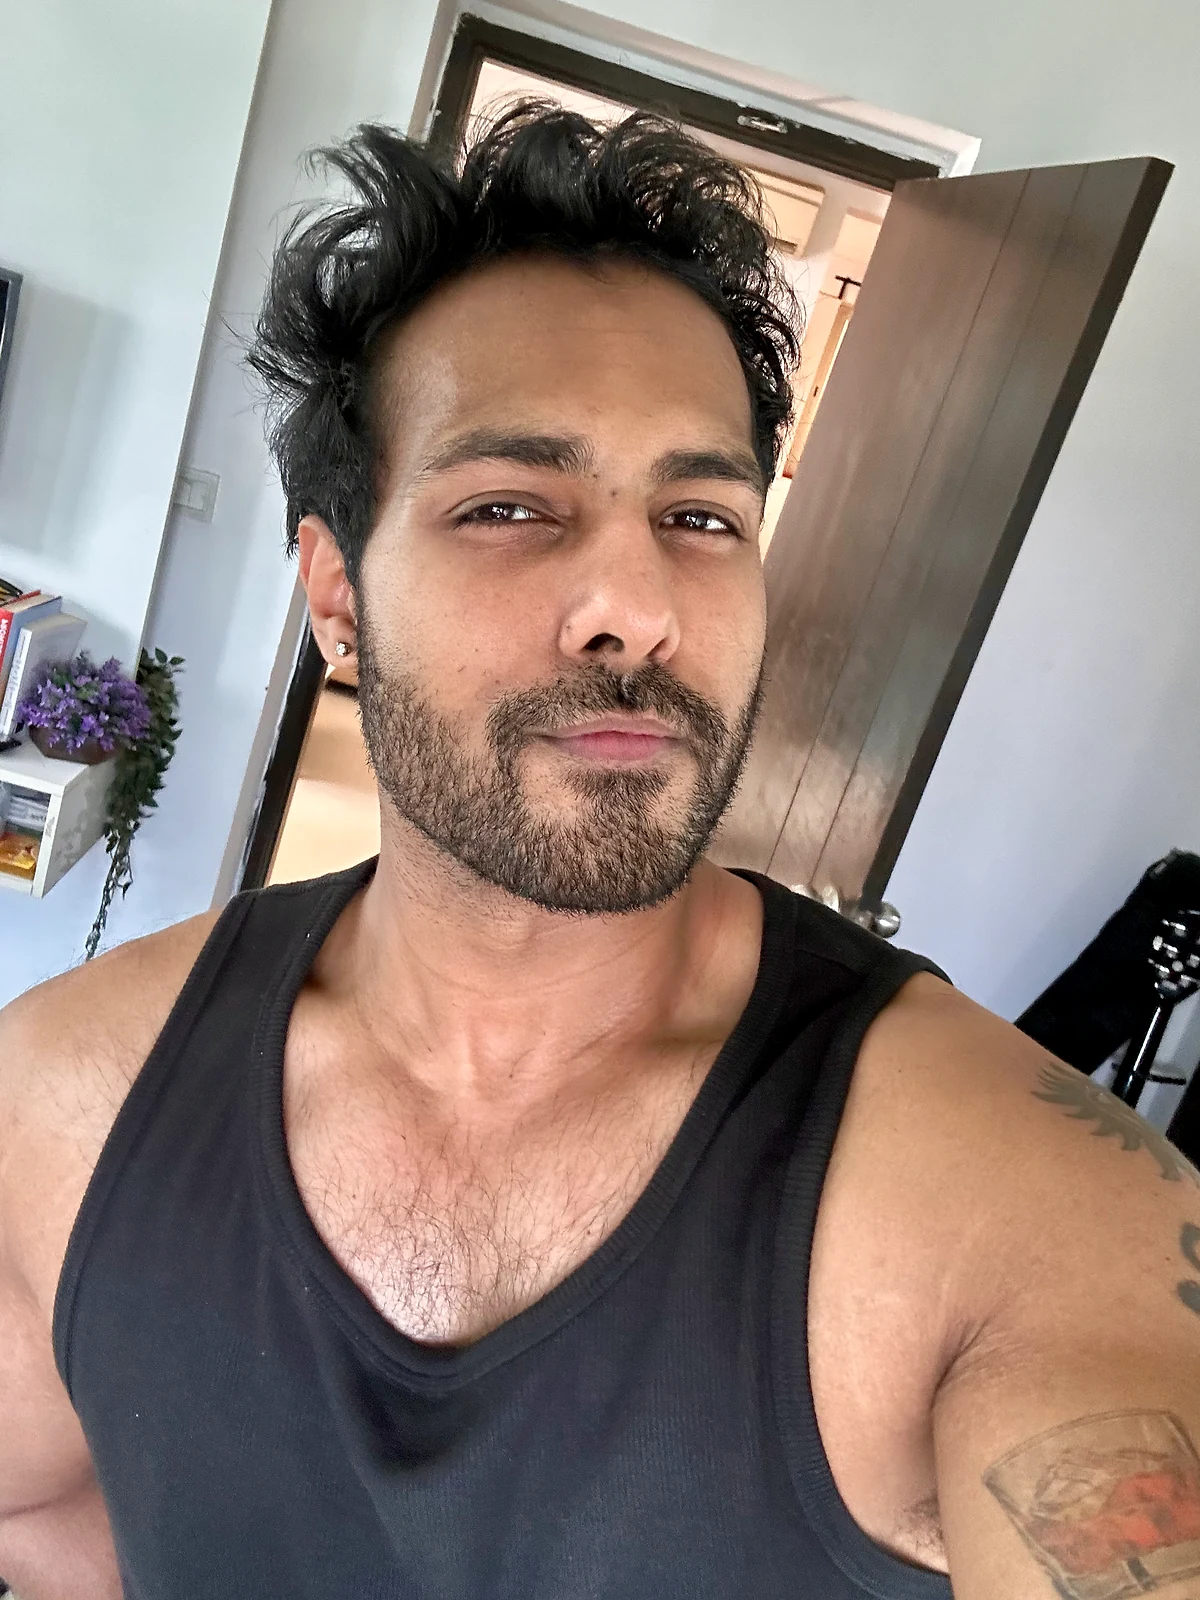
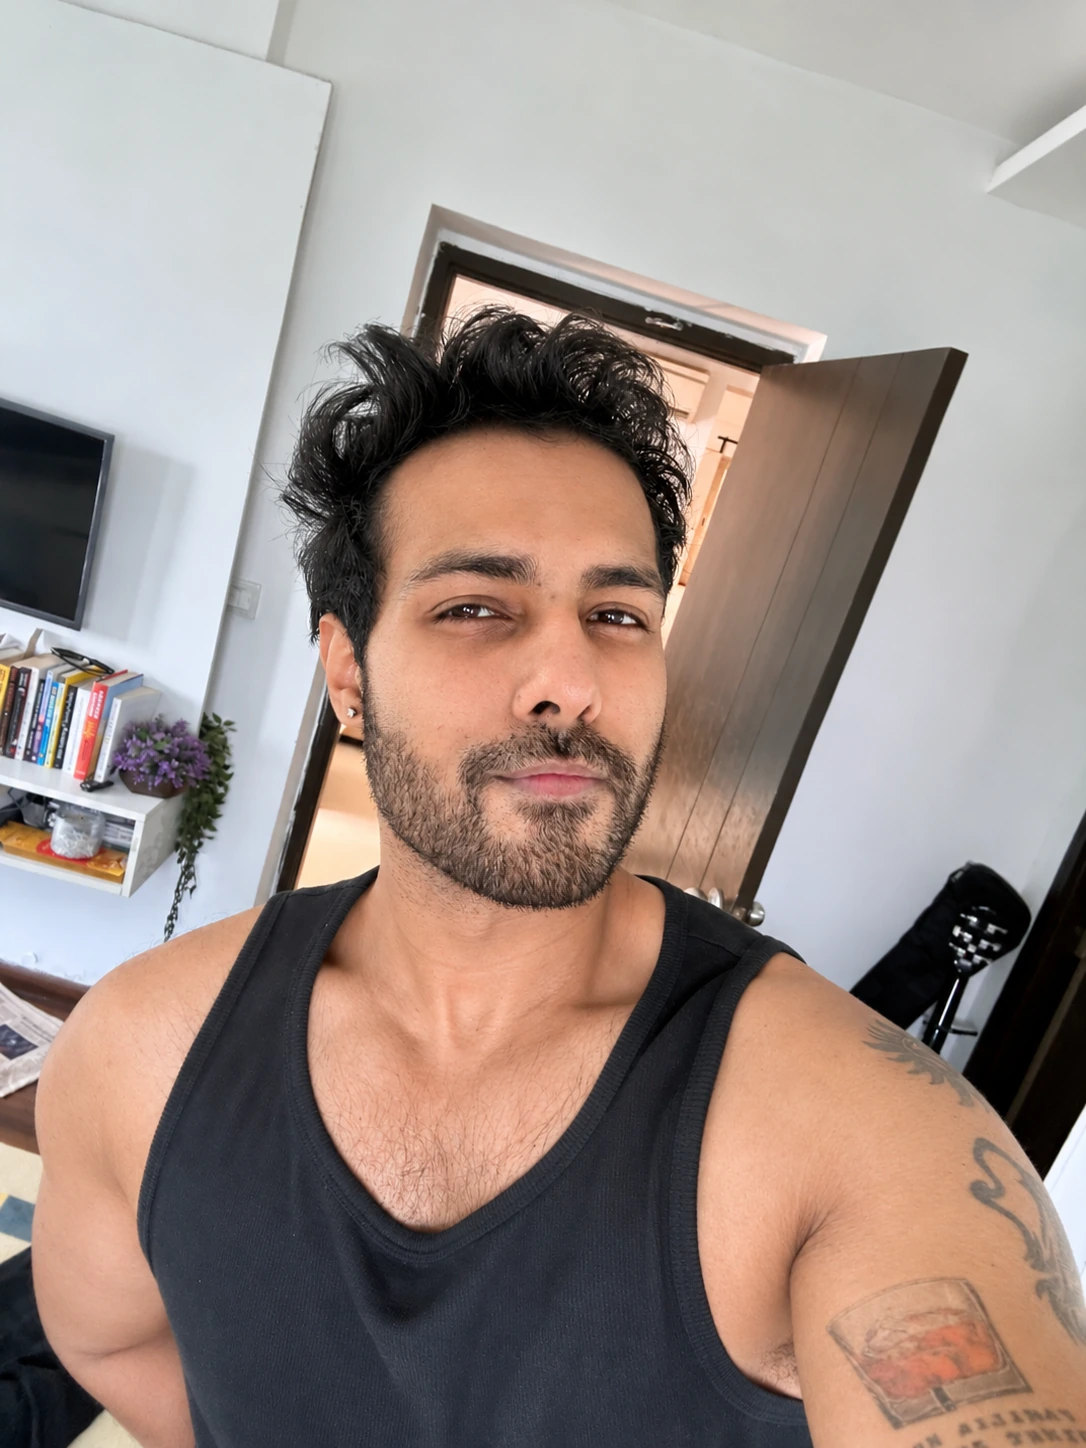
Replace transformation portrait with colour-corrected selfie
Copilot-Session: ef366c2a-497a-44c4-8f17-80fd8b657a9e

diff --git a/src/components/TransformationPhotos.tsx b/src/components/TransformationPhotos.tsx
@@ -39,8 +39,8 @@ const TransformationPhotos = ({
       <img
         src={akshatNow}
         alt="Akshat in a black vest after his transformation"
-        width="1200"
-        height="1600"
+        width="1086"
+        height="1448"
       />
       <figcaption>{afterCaption}</figcaption>
     </figure>
